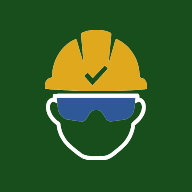
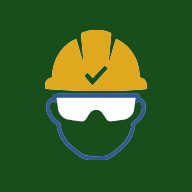
Inverte cores do ícone: óculos brancos e rosto azul
Troca a cor das lentes (agora brancas, --bg-white) com a do contorno
do rosto/armação (agora azul, --info-blue). Capacete e fundo/check
inalterados.

Changed region(s): [[0.2188, 0.4688, 0.7812, 0.8438]]

diff --git a/service-worker.js b/service-worker.js
@@ -4,7 +4,7 @@
 // CONFIGURAÇÃO DO SERVICE WORKER - Definições de Cache
 // =========================================================================
 
-const CACHE_NAME = "gentehonesta-v153";
+const CACHE_NAME = "gentehonesta-v154";
 
 // CONFIGURAÇÃO DO SERVICE WORKER - Lista de Recursos Core para Cache Inicial
 const urlsToCache = [

diff --git a/CLAUDE.md b/CLAUDE.md
@@ -359,7 +359,7 @@ o ícone fica automaticamente centralizado com o texto. `.btn--text .material-sy
 
 **`text-decoration` não propaga de forma confiável para filhos de um flex container:** `.pro-card__meta-item--inactive` (rodapé do card de profissional, `proFooterHTML()` em `feed.js`) risca só o texto do método de pagamento indisponível, nunca o ícone — mas o `text-decoration: line-through` está no span do RÓTULO (`.pro-card__meta-item__label`), não em `.pro-card__meta-item--inactive` diretamente. Colocar o risco no item (que é `display: inline-flex`) e tentar excluir o ícone com `text-decoration: none` nele NÃO funciona no Chrome: como `.pro-card__meta-item` é um flex container, o ícone (item flex) é "blockificado" e o navegador ignora esse `none`, riscando o ícone mesmo assim. A solução é aplicar o risco direto no span do texto, nunca herdado de um ancestral flex.
 
-**Service Worker:** incrementar `CACHE_NAME` em `service-worker.js` a cada deploy com mudanças de cache. Versão atual: `gentehonesta-v153`. Os arquivos CSS e JS são atualizados automaticamente pelo Network-First; o incremento serve para forçar limpeza de caches antigos.
+**Service Worker:** incrementar `CACHE_NAME` em `service-worker.js` a cada deploy com mudanças de cache. Versão atual: `gentehonesta-v154`. Os arquivos CSS e JS são atualizados automaticamente pelo Network-First; o incremento serve para forçar limpeza de caches antigos.
 
 **Seção "Detalhes profissionais" (`#panel-prodetails`):** todas as subseções seguem o mesmo padrão visual
 (sem cards/fundos individuais) — "O que você faz?", "Suas Habilidades" e "Padrão de Serviços" são
